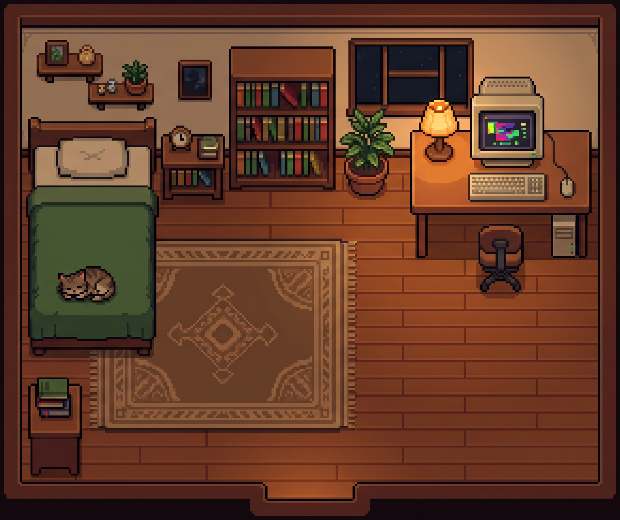
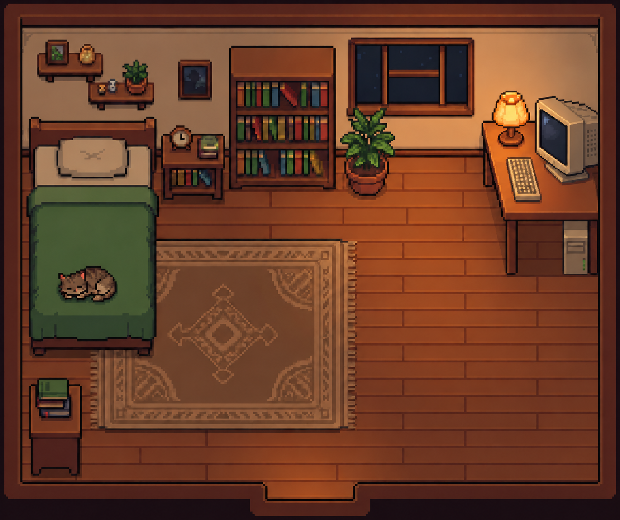
Correct Agent Studio composition and status ownership

diff --git a/app/web/app.js b/app/web/app.js
@@ -7,15 +7,22 @@ async function api(path,body){const r=await fetch(path,{method:body===undefined?
 function text(tag,content){const el=document.createElement(tag);el.textContent=content;return el;}
 function update(id,content){if($(id).textContent!==content)$(id).textContent=content;}
 function button(label,action){const b=text('button',label);b.type='button';b.addEventListener('click',()=>Promise.resolve(action()).catch(showError));return b;}
-function showError(error){$('error').replaceChildren(text('h3',error.info?.title??'Connection needs attention'),text('p',error.message),button('Check Again',async()=>{await refreshRuns();await refreshStatus(true);}));$('error').dataset.kind=error.network?'network':'request';$('error').hidden=false;}
+function showError(error){
+ const box=$('error'),technical=document.createElement('details');
+ // Never promote arbitrary engine/JavaScript messages into product copy.
+ const safeCode=/^[A-Z][A-Z0-9_]{2,70}$/.test(error?.info?.code??'')?error.info.code:null;
+ technical.append(text('summary','Technical details'),text('pre',safeCode??(error instanceof TypeError?'Internal interface data error.':'Local request could not be completed.')));
+ box.replaceChildren(text('h3','Something needs attention'),text('p','Check the connection and try checking the current result again.'),button('Check Again',async()=>{await refreshRuns();await refreshStatus(true);}),technical);
+ box.dataset.kind=error?.code==='VALIDATION_EVIDENCE_INCOMPLETE'?'validation':error?.network?'network':'request';box.hidden=false;
+}
 function route(){const name=location.hash.slice(1)||'workspace';for(const el of document.querySelectorAll('.view'))el.hidden=el.id!==name;for(const a of document.querySelectorAll('nav a,.settings')){if(a.hash==='#'+name)a.setAttribute('aria-current','page');else a.removeAttribute('aria-current');}update('view-label',name==='workspace'?'FIGMA DESIGNER · AGENT STUDIO':name.toUpperCase());update('workspace-title',({workspace:'Your design studio',prototype:'Prototype workshop',qa:'Review desk',browser:'Preview room',runs:'Studio journal',settings:'Studio settings'})[name]??'Your design studio');if(['qa','browser'].includes(name))refreshValidation().catch(showError);}
 function compose(input=''){location.hash='workspace';$('prompt').value=input;$('prompt').focus();}
 function summary(run){const marker=run.result?.match(/FIGMA_([A-Z0-9_]+):\s*(PASS|WARN|FAIL|HOLD|BLOCKED)/);return run.state==='RUNNING'?'Working…':run.state==='WAITING_FOR_USER'?'Ready for your reply':run.state==='CANCELLED'?'Task stopped':run.state==='FAILED'?'Task needs attention':run.state==='COMPLETED'&&marker&&marker[2]!=='PASS'?'Findings to review · '+marker[2]:run.mode==='QA'?'Interface QA · '+(run.validation?.status??'Completed'):run.mode.startsWith('BROWSER')?'Browser task complete':run.mode==='STATUS'?'System check complete':/FIGMA_(DESIGN|REVIS)/.test(run.result)?'Design complete':'Task complete';}
 function recovery(run){
   const card=document.createElement('section');card.className='recovery';
   const recovered=run.recovery==='RECOVERED_COMPLETED',partial=run.recovery==='CONTINUE_FROM_CURRENT_STATE',safe=run.recovery==='RETRY_SAFE';
-  card.append(text('h3',run.integrity?.state==='CHANGED'?'Read-only verification failed':recovered||partial?'Work was preserved':safe?(run.error?.title??'Task could not start'):'Connection interrupted'),text('p',recovered?'The native session completed. The result below was recovered without repeating your request.':run.error?.message??'The engine response was interrupted.'));
-  if(run.error?.impact)card.append(text('p',run.error.impact));
+  card.append(text('h3',run.integrity?.state==='CHANGED'?'Read-only verification failed':recovered||partial?'Work was preserved':safe?(run.error?.code==='PROVIDER_AUTH_REQUIRED'?'Reconnect your AI provider':'Task could not start'):'Connection interrupted'),text('p',recovered?'The native session completed. The result below was recovered without repeating your request.':run.integrity?.state==='CHANGED'?'The read-only result was not accepted. Check the document before continuing.':safe?'Figma was not changed by this request.':partial?'Completed work was preserved. Continue only the unfinished parts.':'Some changes may already exist. Check the current result before continuing.'));
+
   const actions=document.createElement('div');actions.className='actions';
   if(safe)actions.append(button('Try Again',()=>submit(run.mode,run.input)));
   if(partial&&run.integrity?.state!=='CHANGED')actions.append(button('Continue From Current Design',()=>compose('Inspect the current design and preserve completed work. Continue only the unfinished parts of this request: '+run.input)));
@@ -23,7 +30,12 @@ function recovery(run){
   if(!recovered&&run.error?.code!=='READ_ONLY_VERIFICATION_FAILED')actions.append(button('Change Model',()=>{location.hash='settings';$('model').focus();}),button('Reconnect Provider',openProvider));
   card.append(actions);const details=document.createElement('details');details.append(text('summary','Details'),text('pre',[run.error?.code,run.recovery,run.checking?'Checking native session…':'',run.sessionId?'Session '+run.sessionId:''].filter(Boolean).join('\n')));card.append(details);return card;
 }
-function runContent(run){const message=document.createElement('article');message.className='message';message.dataset.runId=run.id;message.dataset.state=run.state;message.append(text('h3',run.agentActivity?.technical?.restored?'PREVIOUS TASK':'YOU'),text('pre',run.input||({AUTO:'Design task',DESIGN:'Design task',QA:'Interaction check',BROWSER:'Preview build',BROWSER_TEST:'Preview check',STATUS:'Connection check'})[run.mode]||'Previous task'));if(run.error||run.recovery)message.append(recovery(run));if(run.result){const result=document.createElement('div');result.className='result-card';const label=summary(run);result.dataset.outcome=run.state==='FAILED'||label.includes('FAIL')?'FAIL':/WARN|HOLD|BLOCKED/.test(label)?'WARN':'DEFAULT';result.append(text('h3',label));if(run.integrity)result.append(text('p','Current-page integrity · '+run.integrity.state));if(run.state==='COMPLETED'&&run.id===history.at(-1)?.id){const actions=document.createElement('div');actions.className='actions';if(run.mode==='QA')actions.append(button('View Findings',()=>{location.hash='qa';}));else if(run.mode.startsWith('BROWSER'))actions.append(button('View Browser Status',()=>{location.hash='browser';}));else if(run.mode!=='STATUS')actions.append(button('Revise',()=>compose()),button('Make Interactive',()=>compose('Make the existing design interactive. ')),button('Run QA',()=>submit('QA')));result.append(actions);}message.append(result);if(['QA','BROWSER','BROWSER_TEST'].includes(run.mode)){const details=document.createElement('details');details.append(text('summary','Canonical report text'),text('pre',run.result));message.append(details);}else if(run.state==='WAITING_FOR_USER')message.append(text('h3','YOUR DESIGNER'),text('pre',run.result));else{const details=document.createElement('details');details.className='designer-response';details.append(text('summary','Designer’s full response'),text('pre',run.result));message.append(details);}}return message;}
+function runContent(run){const message=document.createElement('article');message.className='message';message.dataset.runId=run.id;message.dataset.state=run.state;message.append(text('h3',run.agentActivity?.technical?.restored?'PREVIOUS TASK':'YOU'));
+ const input=run.input||({AUTO:'Design task',DESIGN:'Design task',QA:'Interaction check',BROWSER:'Preview build',BROWSER_TEST:'Preview check',STATUS:'Connection check'})[run.mode]||'Previous task';
+ const preview=text('pre',input.length>240?input.slice(0,237)+'…':input);preview.className='request-preview';message.append(preview);
+ if(input.length>240){const full=document.createElement('details');full.className='request-full';full.append(text('summary','Full request'),text('pre',input));message.append(full);}
+ if(run.error||run.recovery){const more=document.createElement('details');more.className='run-recovery';more.append(text('summary',run.recovery==='RECOVERED_COMPLETED'?'Recovery record':'Recovery actions'),recovery(run));if(run.state==='FAILED'&&run.recovery!=='RECONCILIATION_REQUIRED'&&run.id===history.at(-1)?.id)more.open=true;message.append(more);}
+if(run.result){const result=document.createElement('div');result.className='result-card';const label=summary(run);result.dataset.outcome=run.state==='FAILED'||label.includes('FAIL')?'FAIL':/WARN|HOLD|BLOCKED/.test(label)?'WARN':'DEFAULT';result.append(text('h3',label));if(run.integrity)result.append(text('p','Current-page integrity · '+run.integrity.state));if(run.state==='COMPLETED'&&run.id===history.at(-1)?.id){const actions=document.createElement('div');actions.className='actions';if(run.mode==='QA')actions.append(button('View Findings',()=>{location.hash='qa';}));else if(run.mode.startsWith('BROWSER'))actions.append(button('View Browser Status',()=>{location.hash='browser';}));else if(run.mode!=='STATUS')actions.append(button('Revise',()=>compose()),button('Make Interactive',()=>compose('Make the existing design interactive. ')),button('Run QA',()=>submit('QA')));result.append(actions);}message.append(result);if(['QA','BROWSER','BROWSER_TEST'].includes(run.mode)){const details=document.createElement('details');details.append(text('summary','Canonical report text'),text('pre',run.result));message.append(details);}else if(run.state==='WAITING_FOR_USER')message.append(text('h3','YOUR DESIGNER'),text('pre',run.result));else{const details=document.createElement('details');details.className='designer-response';details.append(text('summary','Designer’s full response'),text('pre',run.result));message.append(details);}}return message;}
 function renderRuns(){
   // Presence timestamps must not rebuild the conversation or repeat its screen-reader log.
   const signature=JSON.stringify([status.workspaceId,status.sessionId,history.map(({agentActivity,activityHistory,...run})=>({...run,restored:agentActivity?.technical?.restored===true}))]);
@@ -58,7 +70,7 @@ async function refreshStatus(force=false){
   else if(status.figma!=='CONNECTED'){title=status.figma==='PLUGIN_NOT_CONNECTED'?'Figma plugin not connected':'Figma connection needs attention';copy='Open your design file in Figma Desktop and run the imported Figma Designer development plugin. Then choose Check Again.';}
   else if(status.mcp&&status.mcp.state!=='COMPATIBLE'){title='Another Figma MCP runtime may be active';copy='Figma Designer MCP needs the approved runtime. Close the older Figma/OpenCode session, run the matching plugin, then choose Check Again.';}
   else if(pendingSubmission){title='Checking the last request';copy='Some changes may already exist in Figma. Check the current result before sending again.';}
-  else if(status.reconciliationRequired){title='Checking the previous operation';copy='Some changes may already exist in Figma. Check the current result before repeating the request.';}
+  else if(status.reconciliationRequired){title='Previous change needs checking';copy='';}
   else if(ai.state!=='READY'){const missing={PROVIDER_REQUIRED:['AI provider needed','Runtime verified and Figma connected. Connect an AI provider before starting a design.'],PROVIDER_AUTH_REQUIRED:['Reconnect your AI provider','Your provider needs authentication before you can continue.'],MODEL_REQUIRED:['Choose an AI model','Choose an available model to start designing.'],MODEL_UNAVAILABLE:['Selected model unavailable','Choose another available model to continue.']};[title,copy]=missing[ai.state]??['Checking AI availability','The engine is loading its provider and model catalog.'];}
   $('connection').dataset.ready=String(status.runtime==='VERIFIED'&&engineReady&&status.figma==='CONNECTED'&&(!status.mcp||status.mcp.state==='COMPATIBLE')&&ai.state==='READY'&&!status.reconciliationRequired&&!pendingSubmission);update('connection-title',title);update('connection-copy',copy);$('connect-shortcut').hidden=!['PROVIDER_REQUIRED','PROVIDER_AUTH_REQUIRED'].includes(ai.state);$('choose-shortcut').hidden=!['MODEL_REQUIRED','MODEL_UNAVAILABLE'].includes(ai.state);if(force||$('error').dataset.kind==='network')$('error').hidden=true;
   const c=status.connection??{};update('figma-settings',`Plugin: ${c.plugin??(status.figma==='CONNECTED'?'CONNECTED':'UNKNOWN')} · Bridge: ${c.bridge??'UNKNOWN'} · Document: ${c.document??'UNKNOWN'} · Runtime: ${status.runtime}`+(status.figma!=='CONNECTED'?' — Open your Figma design file. In Figma Desktop, run the imported Figma Designer development plugin. Return here and choose Check Again.':''));
@@ -66,7 +78,7 @@ async function refreshStatus(force=false){
 }
 async function refreshRuns(){history=await api('/api/runs');const received=history.find(r=>r.requestId===pendingSubmission);if(received){pendingSubmission=null;if($('prompt').value.trim()===received.input.trim())$('prompt').value='';$('error').hidden=true;}renderRuns();}
 let validationPending,lastValidation=0,validationRuns='';
-async function refreshValidation(){validationPending??=api('/api/validation').then(value=>{renderValidation(value);lastValidation=Date.now();}).finally(()=>validationPending=null);return validationPending;}
+async function refreshValidation(){validationPending??=api('/api/validation').then(value=>{renderValidation(value);if($('error').dataset.kind==='validation')$('error').hidden=true;lastValidation=Date.now();}).finally(()=>validationPending=null);return validationPending;}
 
 async function submit(mode,input=''){
   if(pendingSubmission)return;
@@ -96,6 +108,8 @@ $('oauth-complete').addEventListener('click',async()=>{const code=$('oauth-code'
 for(const b of document.querySelectorAll('.refresh-validation'))b.addEventListener('click',()=>refreshValidation().catch(showError));
 for(const id of ['qa-continue','browser-continue'])$(id).addEventListener('click',()=>compose('Review the current validation findings and fix the issues I choose.'));
 $('provider-recheck').addEventListener('click',()=>refreshStatus(true).catch(showError));
+window.addEventListener('error',event=>{event.preventDefault();showError(event.error);});
+window.addEventListener('unhandledrejection',event=>{event.preventDefault();showError(event.reason);});
 window.addEventListener('hashchange',route);route();
 async function poll(){if(polling)return;polling=true;try{await refreshRuns();await refreshStatus();const stamp=JSON.stringify(history.filter(r=>r.finishedAt).map(r=>[r.id,r.state,r.validation]));if(stamp!==validationRuns||Date.now()-lastValidation>15000){validationRuns=stamp;refreshValidation().catch(showError);}}catch{showError(Object.assign(Error('The local service is unavailable. Check again after it reconnects.'),{network:true}));}finally{polling=false;}}
 await poll();setInterval(poll,1500);

diff --git a/app/web/index.html b/app/web/index.html
@@ -14,8 +14,8 @@
 <div class="agent-copy"><span class="agent-avatar" aria-hidden="true">✦</span><div><p id="agent-message" role="status" aria-live="polite" aria-atomic="true">Ready when you are.</p><p id="agent-detail" hidden></p></div></div>
 <div class="actions workflow-actions"><button data-mode="QA">Run QA</button><button data-mode="BROWSER">Build Browser</button><button data-mode="BROWSER_TEST">Test Browser</button><button data-mode="STATUS">Check System</button></div>
 </section>
-<aside class="conversation-panel" aria-label="Current task and conversation"><div class="conversation-heading"><span class="eyebrow">OUR CONVERSATION</span><h2>From an idea to a design.</h2></div><div class="intro"><span class="intro-symbol" aria-hidden="true">✧</span><h3>What are you imagining?</h3><p>Tell me what you want to create. We’ll build it in Figma, then refine it together.</p><p class="muted">Your work stays editable. Your next idea can start right here.</p></div><div id="conversation" role="log" aria-label="Design conversation" aria-live="polite"></div><div id="run-state" role="status"></div><div class="agent-recent"><h3>Studio activity</h3><ol id="agent-history" aria-label="Recent activity"></ol><p id="agent-history-empty">The story of your next design starts here.</p></div><details id="agent-details"><summary>View details</summary><pre id="agent-technical"></pre></details><section id="validation-summary" class="validation-summary" hidden><h3>Current workspace</h3><div id="validation-summary-status"></div><div class="actions"><a class="text-link" href="#qa">Review QA →</a><a class="text-link" href="#browser">Open Browser →</a></div></section></aside>
-<form id="composer"><label for="prompt">What should we design?</label><textarea id="prompt" placeholder="Describe a screen, a new idea, or a change…" rows="3" maxlength="32000" required></textarea><div class="compose-actions"><span>Enter to add a line · Ctrl + Enter to send</span><button id="cancel" type="button" hidden>Stop run</button><button id="send" type="submit" class="primary">Send</button></div></form></section>
+<aside class="conversation-panel" aria-label="Current task and conversation"><div class="conversation-heading"><span class="eyebrow">OUR CONVERSATION</span><h2>From an idea to a design.</h2></div><div class="intro"><span class="intro-symbol" aria-hidden="true">✧</span><h3>What are you imagining?</h3><p>Tell me what you want to create. We’ll build it in Figma, then refine it together.</p><p class="muted">Your work stays editable. Your next idea can start right here.</p></div><div id="conversation" role="log" aria-label="Design conversation" aria-live="polite"></div><div id="run-state" role="status"></div><div class="agent-recent"><h3>Recent activity</h3><ol id="agent-history" aria-label="Recent activity"></ol><p id="agent-history-empty">The story of your next design starts here.</p></div><details id="agent-details"><summary>View details</summary><pre id="agent-technical"></pre></details><section id="validation-summary" class="validation-summary" hidden><h3>Current workspace</h3><div id="validation-summary-status"></div><div class="actions"><a class="text-link" href="#qa">Review QA →</a><a class="text-link" href="#browser">Open Browser →</a></div></section></aside>
+<form id="composer"><label for="prompt">What should we design?</label><textarea id="prompt" placeholder="Describe a screen, idea, or change…" rows="2" maxlength="32000" required></textarea><div class="compose-actions"><span>Enter to add a line · Ctrl + Enter to send</span><button id="cancel" type="button" hidden>Stop run</button><button id="send" type="submit" class="primary">Send</button></div></form></section>
 <section id="prototype" class="view" hidden><p class="eyebrow">PROTOTYPE WORKSHOP</p><h2>Give your screens a little life.</h2><p>Describe the controls or journey you want to make interactive.</p><button id="prototype-compose" class="primary">Describe an interaction</button><p class="muted">Only defined, supported behavior is authored. Conditional variable workflows remain unavailable.</p></section>
 <section id="qa" class="view" hidden><p class="eyebrow">THE REVIEW DESK · READ ONLY</p><h2>Check how it works.</h2><p>Find broken behavior, unknown expectations and native limitations in the inspected scope.</p><div class="actions"><button data-mode="QA" class="primary">Run QA</button><button class="refresh-validation">Refresh Evidence</button><button id="qa-continue">Continue Designing</button></div><div id="qa-result" class="inspection-section" role="status">No structured QA evidence yet.</div><section id="qa-integrity" class="inspection-section" aria-label="Document integrity"></section><section class="inspection-section"><div class="section-heading"><h3>Findings</h3><label>Show <select id="qa-filter"><option value="ALL">All</option><option value="BROKEN">Broken</option><option value="UNKNOWN">Unknown expectations</option><option value="LIMITATIONS">Figma limitations</option><option value="BLOCKER">Blocker</option><option value="HIGH">High</option><option value="MEDIUM">Medium</option><option value="LOW">Low</option></select></label></div><div id="qa-findings"></div></section><details id="qa-raw" class="inspection-section"><summary>Raw Evidence — normalized</summary></details></section>
 <section id="browser" class="view" hidden><p class="eyebrow">THE PREVIEW ROOM</p><h2>Try it beyond the canvas.</h2><p>Freshness, functional checks and visual evidence answer different questions.</p><div class="actions"><button data-mode="BROWSER" class="primary">Build Browser</button><button data-mode="BROWSER_TEST">Run Browser Test</button><button id="open-preview">Open Preview</button><button id="refresh-browser">Refresh Status</button><button id="browser-continue">Continue Designing</button></div><p id="validation-asof" class="muted"></p><section id="browser-status" class="inspection-section" aria-label="Preview and freshness" role="status">Checking evidence…</section><section class="inspection-section"><h3>Browser test</h3><div id="browser-tests"></div></section><section id="browser-motion" class="inspection-section" aria-label="Motion evidence"></section><section class="inspection-section"><h3>Source fidelity</h3><div id="fidelity"></div><div class="section-heading"><h3>Fidelity findings</h3><label>Show <select id="fidelity-filter"><option value="DEFECTS">Defects</option><option value="ALL">All</option><option value="FONTS">Fonts</option><option value="LIMITATIONS">Limitations</option></select></label></div><div id="fidelity-findings"></div></section><section id="font-limitations" class="inspection-section"></section><section id="property-limitations" class="inspection-section"></section><section id="browser-regression" class="inspection-section" aria-label="Browser visual regression"></section><section id="native-parity" class="inspection-section" aria-label="Native render comparison"></section><section class="inspection-section"><h3>Validation history</h3><div id="validation-history"></div></section><details id="browser-raw" class="inspection-section"><summary>Raw Evidence — normalized</summary></details></section>

diff --git a/app/web/agent-presence.css b/app/web/agent-presence.css
@@ -1,6 +1,6 @@
 .agent-studio{min-width:0;min-height:0;display:flex;flex-direction:column;justify-content:center;position:relative}.studio-heading{display:flex;justify-content:space-between;align-items:center;gap:12px;padding:8px 0 6px;flex-shrink:0}.studio-heading h2{font-size:21px;font-weight:500;margin:5px 0 0;letter-spacing:-.025em}#agent-phase{font-size:10px;border:1px solid var(--line);padding:4px 10px;border-radius:20px;color:var(--accent);white-space:nowrap}.agent-visual{position:relative;width:100%;max-width:620px;min-height:0;aspect-ratio:620/520;margin:auto;flex-shrink:1;overflow:hidden;background:#150f13}.studio-room{display:block;width:100%;height:100%;object-fit:contain;image-rendering:pixelated}.studio-character{position:absolute;left:72.3%;top:34%;width:20.65%;height:34.62%;object-fit:contain;image-rendering:pixelated;transform-origin:bottom center}.studio-monitor{position:absolute;left:77.8%;top:21.6%;width:7.1%;height:6.1%;image-rendering:pixelated;object-fit:fill}.agent-copy{display:flex;gap:12px;align-items:flex-start;padding:13px 0 9px;flex-shrink:0;min-width:0}.agent-avatar{display:grid;place-items:center;width:26px;height:26px;flex-shrink:0;background:var(--soft);color:var(--accent);border-radius:8px}#agent-message{font-size:14px;line-height:1.5;margin:1px 0;color:var(--text);overflow-wrap:anywhere}#agent-detail{font-size:11px;line-height:1.5;margin:5px 0 0;color:var(--muted);overflow-wrap:anywhere}.workflow-actions{margin:0;gap:6px 15px;flex-shrink:0}.workflow-actions button{border:0;background:transparent;font-size:10px;padding:5px 0;color:var(--muted)}.workflow-actions button:hover:not(:disabled){color:var(--accent);background:transparent;border:0}.agent-recent{border-top:1px solid var(--line);padding-top:12px;margin-top:12px;flex-shrink:0}.agent-recent h3{font-size:10px;font-weight:550;color:var(--muted);letter-spacing:.03em}#agent-history{list-style:none;padding:0;margin:0;max-height:90px;overflow:auto;font-size:11px;color:var(--muted)}#agent-history li{display:flex;gap:8px;padding:3px 0;overflow-wrap:anywhere}#agent-history li span:first-child{color:var(--accent);width:12px;flex-shrink:0}#agent-history-empty{font-size:11px;margin:0;color:var(--muted)}#agent-details{flex-shrink:0;padding-bottom:4px}#agent-technical{max-height:130px;overflow:auto}.agent-studio[data-phase=BLOCKED] #agent-phase,.agent-studio[data-phase=RECOVERING] #agent-phase{color:var(--warn);border-color:var(--warn)}
 #agent-scene[data-active=true][data-animation=TYPE] .studio-character{animation:studio-type .7s steps(2,end) infinite}#agent-scene[data-active=true][data-animation=RECOVER] .studio-character{animation:studio-search 2s steps(2,end) infinite}
-@keyframes studio-type{50%{transform:translateY(-1px)}}@keyframes studio-search{50%{transform:rotate(-1deg)}}
+@keyframes studio-type{50%{transform:translateY(-1px)}}@keyframes studio-search{50%{transform:translateY(-1px)}}
 @media(min-width:801px) and (max-height:750px){.studio-heading .eyebrow{display:none}.studio-heading h2{font-size:17px}.agent-visual{max-width:430px}.agent-copy{padding:8px 0 5px}#agent-message{font-size:12px}#composer{padding:9px 12px}textarea{min-height:42px}.workflow-actions button{font-size:9px}.agent-recent{padding-top:8px;margin-top:8px}}
 @media(max-width:800px){.agent-visual{max-width:540px}.agent-copy{padding-top:12px}}
 @media(prefers-reduced-motion:reduce){#agent-scene *{animation:none!important;transition:none!important}}
@@ -9,3 +9,8 @@
 @media(max-width:800px){.scene-fit{flex:none;height:min(80vw,490px);width:100%}}
 
 .studio-character{top:27%}
+
+/* Static room/CRT casing; right-facing sprites share a bottom-centered canvas. */
+.studio-character{left:68%;top:22%;width:18%;height:27%;transform:none}.studio-monitor{left:87.1%;top:21.5%;width:4.5%;height:10%;clip-path:polygon(0 0,100% 24%,100% 100%,0 76%)}
+.agent-visual{max-width:690px;background:transparent}.studio-heading{padding-bottom:3px}.studio-heading h2{font-size:19px}.agent-copy{align-self:center;max-width:540px;width:100%;padding:7px 10px 4px;gap:9px}.agent-avatar{width:23px;height:23px}#agent-message{font-size:13px}#agent-detail{font-size:10px;margin-top:3px}.workflow-actions{justify-content:center}
+@media(min-width:801px) and (max-height:750px){.agent-visual{max-width:620px}.studio-heading h2{font-size:17px}.agent-copy{padding:5px 0}#agent-detail{display:none}.workflow-actions button{padding:3px 0}}

diff --git a/app/web/agent-presence.js b/app/web/agent-presence.js
@@ -6,7 +6,12 @@ export function renderAgentPresence(runs,status={}){
  const run=runs.filter(r=>status.workspaceId?r.workspaceId===status.workspaceId:!status.sessionId||r.sessionId===status.sessionId).at(-1);
  const override=status.reconciliationRequired&&!status.activeRun?'unknown':connectionMessage(status);
  const view=activityView(override?{messageId:override,attention:true}:run?.agentActivity);
- const history=(run?.activityHistory??[]).slice(-10).map(entry=>({...activityView(entry),observation:entry.observation}));
+ const phases=new Map();
+ for(const entry of (run?.activityHistory??[]).slice(-10)){
+  const view=activityView(entry),key=entry.technical?.category==='RECOVERY'?'RECOVERY':view.phase;
+  phases.delete(key);phases.set(key,{...view,observation:entry.observation,historyLabel:key==='RECOVERY'?'Checking previous change':null});
+ }
+ const history=[...phases.values()];
  const technical=run?.agentActivity?.technical??{};
  const safeDetails={phase:view.phase,animation:view.animation};
  for(const [key,allowed]of Object.entries({workflow:['AUTO','DESIGN','QA','BROWSER','BROWSER_TEST','STATUS'],runState:['RUNNING','COMPLETED','FAILED','CANCELLED','WAITING_FOR_USER'],category:['READ_DESIGN','WRITE_DESIGN','COMPONENTS','PROTOTYPE','EXPORT','QA','BROWSER','RECOVERY','OTHER'],recovery:['RECONCILIATION_REQUIRED','RECOVERED_COMPLETED','CONTINUE_FROM_CURRENT_STATE','RETRY_SAFE'],receiptState:['UNKNOWN','IN_PROGRESS','FAILED_AFTER_PARTIAL_WRITE','COMMITTED','FAILED_PRECONDITION','FAILED_BEFORE_WRITE','UNVERIFIED'],integrity:['UNCHANGED','CHANGED','UNVERIFIED']}))if(allowed.includes(technical[key]))safeDetails[key]=technical[key];
@@ -15,9 +20,9 @@ export function renderAgentPresence(runs,status={}){
  const character={IDLE:'idle',LISTEN:'listening',READ:'checking',THINK:'planning',TYPE:'designing',CONNECT:'prototyping',CHECK:'checking',PREVIEW:'listening',TALK:'waiting',WAIT:'waiting',RECOVER:'recovering',DONE:'done',ALERT:'alert'}[view.animation];
  const monitor={IDLE:'ready',LISTENING:'ready',INSPECTING:'inspecting',PLANNING:'planning',DESIGNING:'designing',PROTOTYPING:'prototyping',CHECKING:'checking',PREVIEWING:'previewing',WAITING:'ready',RECOVERING:'recovering',COMPLETED:view.attention?'attention':'done',CANCELLED:'ready',BLOCKED:'attention'}[view.phase];
  $('studio-character').src='/assets/agent-studio/character/'+character+'.png';$('studio-monitor').src='/assets/agent-studio/monitor/'+monitor+'.png';
- put('agent-phase',phaseLabels[view.phase]);put('agent-message',view.message);put('agent-detail',view.detail);$('agent-detail').hidden=!view.detail;
+ put('agent-phase',phaseLabels[view.phase]);put('agent-message',view.message);put('agent-detail',view.detail);$('agent-detail').hidden=!view.detail||!!override||technical.category==='RECOVERY';
  const list=$('agent-history');list.replaceChildren();
- for(const entry of history){const item=document.createElement('li'),mark=document.createElement('span'),label=document.createElement('span');mark.setAttribute('aria-hidden','true');mark.textContent=entry.attention?'!':entry.observation==='completed'||entry.terminal?'✓':entry.active?'●':'·';label.textContent=entry.message;item.append(mark,label);list.append(item);}
+ for(const entry of history){const item=document.createElement('li'),mark=document.createElement('span'),label=document.createElement('span');mark.setAttribute('aria-hidden','true');mark.textContent=entry.attention?'!':entry.observation==='completed'||entry.terminal?'✓':entry.active?'●':'·';label.textContent=entry.historyLabel??({IDLE:'Ready',LISTENING:'Request received',INSPECTING:'Checked your design',PLANNING:'Planned the layout',DESIGNING:'Built the interface',PROTOTYPING:'Connected interactions',CHECKING:'Checked the result',PREVIEWING:'Prepared preview',WAITING:'Awaiting your reply',RECOVERING:'Checking previous change',COMPLETED:'Finished',CANCELLED:'Task stopped',BLOCKED:'Needs attention'})[entry.phase];item.append(mark,label);list.append(item);}
  $('agent-history-empty').hidden=!!history.length;
  put('agent-technical',Object.entries(safeDetails).map(([key,value])=>key+': '+value).join('\n'));
 }

diff --git a/app/web/styles.css b/app/web/styles.css
@@ -37,3 +37,17 @@ details{margin-top:12px}summary{cursor:pointer;font-size:11px;color:var(--muted)
 #validation-history p{border-bottom:1px solid var(--line);padding:10px 0;font-size:13px}
 @media(max-width:620px){.section-heading{align-items:stretch;flex-direction:column;gap:8px}.section-heading label{max-width:100%}#validation-summary-status{grid-template-columns:1fr}.evidence-row{gap:10px;font-size:13px}.finding-heading{gap:8px}}
 @media(prefers-color-scheme:dark){.outcome[data-outcome=WARN],.outcome[data-outcome=STALE],.outcome[data-outcome=MEDIUM],.outcome[data-outcome=LOW]{color:#dec18a}.outcome[data-outcome=FAIL],.outcome[data-outcome=FAILED],.outcome[data-outcome=BLOCKER],.outcome[data-outcome=HIGH]{color:#f0aaa1}}
+
+/* Studio composition: room first; controls and conversation stay quiet. */
+.connection[data-ready=true]{display:none}.statuses{opacity:.8}
+.studio-layout{grid-template-columns:minmax(0,1fr) 286px;gap:0 30px;padding-top:14px}.conversation-panel{padding-left:20px;border-left-color:color-mix(in srgb,var(--line) 55%,transparent)}
+.conversation-heading h2{font-size:14px;margin:6px 0 14px}.intro h3{font-size:18px}.intro p{font-size:12px}
+.message{padding:13px 0}.message pre{font-size:11px;line-height:1.65}.request-preview{display:-webkit-box;-webkit-line-clamp:3;-webkit-box-orient:vertical;overflow:hidden;font-weight:400!important}.request-full pre{font-weight:400!important}
+.result-card{background:transparent;border:0;padding:0;margin:12px 0}.result-card h3{font-size:12px}.result-card .actions{gap:5px;margin-top:8px}.result-card button{padding:5px 8px;font-size:10px}
+#run-state{display:none}#composer{background:transparent;border:0;border-top:1px solid var(--line);border-radius:0;padding:10px 0 0;margin-top:6px}#composer label{font-size:12px;margin-bottom:3px}#prompt{min-height:42px;height:44px;max-height:110px;font-size:12px}.compose-actions button{padding:6px 13px}
+.agent-recent{margin-top:10px;padding-top:8px}#agent-history{max-height:65px}.agent-recent h3{font-size:10px}.validation-summary{padding-top:10px;margin-top:12px;font-size:11px}
+nav a[href="#runs"]{margin-top:22px;font-size:10px;opacity:.8}.new{background:transparent;font-weight:400}
+@media(min-width:801px) and (max-width:1100px){.studio-layout{grid-template-columns:minmax(0,1fr) 240px;gap:0 18px}.conversation-panel{padding-left:14px}header{height:64px}.conversation-heading h2{font-size:13px}}
+@media(max-width:800px){.studio-layout{display:flex}.conversation-panel{padding-left:0}}
+
+.conversation-panel #validation-summary-status{grid-template-columns:1fr}.conversation-panel .validation-summary h3{font-size:11px}.conversation-panel .validation-summary .evidence-row{padding:4px 0;font-size:10px}

diff --git a/app/web/validation.js b/app/web/validation.js
@@ -53,6 +53,14 @@ function renderBrowser(){
 }
 function renderFidelityFindings(){const filter=$('fidelity-filter').value,rows=current.fidelity.findings.filter(f=>filter==='ALL'||filter==='DEFECTS'&&f.severity!=='LIMITATION'||filter==='FONTS'&&f.code==='FONT_FIDELITY_LIMITATION'||filter==='LIMITATIONS'&&f.severity==='LIMITATION');$('fidelity-findings').replaceChildren(...rows.map(f=>finding(f,'fidelity')));if(!rows.length)$('fidelity-findings').append(el('p','No findings in this filter. Unmeasured properties remain unverified.','muted'));}
 export function renderValidation(value){
+  // Reject incomplete evidence before dereferencing nested status/count fields.
+  if(!value?.qa?.counts||!value.qa.integrity||!Array.isArray(value.qa.findings)||!value.browser||!Array.isArray(value.browser.checks)||!value.motion||!Array.isArray(value.motion.rows)||!value.fidelity?.coverage||!Array.isArray(value.fidelity.findings)||!Array.isArray(value.fidelity.fonts)){
+    current=undefined;rendered=undefined;
+    for(const id of ['qa-result','browser-status','qa-integrity','qa-findings','qa-raw','browser-tests','browser-motion','fidelity','fidelity-findings','font-limitations','property-limitations','browser-regression','native-parity','browser-raw'])$(id).replaceChildren(el('h3','Evidence unavailable'),el('p','Check again to load complete validation evidence.'));
+    $('validation-summary').hidden=true;$('open-preview').disabled=true;
+    throw Object.assign(new TypeError('Incomplete validation evidence'),{code:'VALIDATION_EVIDENCE_INCOMPLETE'});
+  }
+
   $('validation-asof').textContent='Evidence checked: '+stamp(value.asOf);
   const signature=JSON.stringify({...value,asOf:null});if(signature===rendered)return;rendered=signature;
   current=value;renderQA();renderBrowser();

diff --git a/docs/AGENT_STUDIO_V1_5_0.md b/docs/AGENT_STUDIO_V1_5_0.md
@@ -2,15 +2,15 @@
 
 ## Purpose and layout
 
-This source milestone supersedes the compact presence-card experiment. A narrow navigation rail, warm connection strip, central bedroom stage, side conversation and bottom composer replace the previous stacked application shell. Studio, Prototype workshop, Review desk, Preview room, Studio journal and Settings keep the existing service/controller contracts. The primary viewport is 1320×860; the desktop minimum remains 900×650. Narrow web layouts stack the scene/conversation instead of clipping controls.
+This source milestone supersedes the compact presence-card experiment. A narrow navigation rail, action-only attention strip, central bedroom stage, side conversation and bottom composer replace the previous stacked application shell. Studio, Prototype workshop, Review desk, Preview room, Studio journal and Settings keep the existing service/controller contracts. The primary viewport is 1320×860; the desktop minimum remains 900×650. Narrow web layouts stack the scene/conversation instead of clipping controls.
 
 The bedroom, character and CRT screen are independently layered. The physical room/casing stay fixed. Safe semantic state selects a character pose and screen interior; dynamic messages remain accessible HTML. Completed observations use past tense and static poses. No artificial progress percentage, delayed completion, model-generated status, workflow decision or extra Figma call is introduced.
 
 ## Art and provenance
 
-The user supplied three generated JPEG references in `design-references/1.5-agent-studio/`. Runtime artwork is prepared from those supplied references: cropped canonical bedroom, ten transparent normalized character canvases, and ten cropped CRT screen interiors under `app/web/assets/agent-studio/`. Raw sheets and labels are excluded from runtime assets. Each output PNG has no generation metadata. Pixelated rendering and nearest-neighbor preparation preserve the reference palette; no remote asset is loaded.
+The user supplied three generated JPEG references in `design-references/1.5-agent-studio/`. Runtime artwork uses the supplied references and an approved workstation correction: recomposed bedroom, ten transparent normalized character canvases, and ten cropped CRT screen interiors under `app/web/assets/agent-studio/`. Raw sheets and labels are excluded from runtime assets. Each output PNG has no generation metadata. Pixelated rendering and nearest-neighbor preparation preserve the reference palette; no remote asset is loaded.
 
-The character sheets are illustrative single poses, not animation frames. State swaps use a stable 128×180 canvas and anchor. Minor hand movement occurs only when an actual active write is observed; reduced motion disables it. Their side-facing perspective differs slightly from the near-top-down room; this is an art limitation, not a claim of a fully hand-authored animation set. Existing room furniture/decor is baked into the approved background; no pet/game system is added.
+The character sheets are illustrative single poses, not animation frames. State swaps use a stable 128×180 canvas and anchor. Minor hand movement occurs only when an actual active write is observed; reduced motion disables it. Working poses face right into a side-facing workstation; idle/listening poses can face the user. This remains an illustrative pose set, not a fully hand-authored animation set. Existing room furniture/decor is baked into the approved background; no pet/game system is added.
 
 PIXEL_AGENTS_CODE_COPIED: NO
 PIXEL_AGENTS_ART_IMPORTED: NO
@@ -31,5 +31,24 @@ Required live cases A–L will be recorded separately as observed evidence. Disp
 ## Limitations and next steps
 
 Polling can miss short in-flight operations; completed observations remain truthful and are not replayed for animation. The translator cannot infer section names/plans from private tool payloads. Original assistant output and canonical findings stay in the conversation/evidence views; only the new status surface is a fixed semantic translation. Refine character perspective/gesture frames after this foundation; do not add a second agent runtime. V1.6 may explore Design-System Intelligence under a separate scope.
+'
+## Immediate visual course correction — 2026-10-18
+
+The existing translator, recovery machinery and completed design/revision evidence are preserved. This correction changes presentation and observational coalescing only.
+
+- **Workstation/room:** built-in imagegen edited the existing runtime bedroom, preserving the left bed/cat, bookshelf, window, plant, wood floor and open center. The desk is side-facing on the right, with keyboard left of the CRT and space for the character's own chair. A second narrow edit made the CRT face readable. The room is static; character, screen interior and HTML speech remain separate layers. No CSS mirroring/rotation of furniture or sprites.
+- **Source reference:** the currently user-modified `design-references/1.5-agent-studio/bedroom-base.jpg` contains the monitor sheet. It is preserved untouched and excluded from this correction commit. The actual existing runtime bedroom was the edit target. No assumption was made that the modified JPEG was a replacement room.
+- **Character:** existing ten 128×180 transparent canvases retained. Shared position 68%/22%, size 18%/27% aligns the seated right-facing working poses with the keyboard. Feet/seat anchors do not change between swaps. Recovery movement uses translation, never rotation. Idle may face the user.
+- **CRT:** physical casing stays in the background. Only the cropped screen content changes, clipped to its fixed three-quarter screen face. No whole-monitor swaps or dynamic bitmap text.
+- **Scale/layout:** 1320×860 browser viewport room is approximately 52% of usable Studio width. Conversation is 286px and quieter; healthy attention strip is hidden. Compact navigation remains, with Runs visually secondary. Composer is an integrated border line, two-row entry and Send.
+- **Conversation:** previews stop at 240 characters with a three-line clamp. Keyboard-operable Full request retains every original character, including whitespace. Full completed assistant responses remain opt-in; actual briefing questions remain visible.
+- **Recovery ownership:** top bar says Previous change needs checking, agent describes current state, timeline uses short historical labels. Repeated recovery phases coalesce in the renderer; opaque steps no longer interleave known tool phases with generic planning. Recovery records/actions remain available without changing retry/reconciliation decisions. No payload or reasoning is parsed for copy.
+- **Errors:** reproduced incomplete validation response `{}`. Validate required evidence containers before reading nested status/count fields; clear stale findings/statuses and disable preview on invalid evidence. No fake passing fallback. Normal copy is Something needs attention; default-closed Technical details uses a safe error classification/code, never raw JavaScript, engine prose, paths or credentials. Valid evidence refresh recovers. Global unexpected error/rejection handlers use the same surface.
+- **Responsive/accessibility:** 1320×860, 1200×800, 1024×720 and 900×650 checked for scene visibility, composer bounds and horizontal overflow. Narrow/200%-equivalent reflow, light/dark, reduced motion, keyboard focus, expanded request/details and polite status remain covered. Secondary workspace evidence uses a single column to avoid narrow clipping.
+- **Visual checkpoint:** PASS for the corrected source presentation, including right-facing working pose inspected separately from idle. Screenshots are private generated evidence, not native Figma motion proof: `.figma-designer/presence/correction-1320x860.png`, `correction-1200x800.png`, `correction-1024x720.png`, `correction-900x650.png`, and `studio-dark.png` (working pose).
+- **Art method/prompt:** built-in imagegen; edit target existing runtime bedroom, character supporting orientation reference. Prompt required only workstation reorientation, bed left, open floor, keyboard/CRT right, no baked character/chair/text; follow-up changed only CRT to readable three-quarter facing left. Selected output is saved in `app/web/assets/agent-studio/room/bedroom-base.png` (620×520, nearest-neighbor preparation, no embedded generation metadata). Existing 21-path static asset boundary unchanged.
+- **Tests:** 572 npm contracts passed; 69 affected translator/application/validation/presence UI tests passed (final correction run). These totals overlap and must not be summed as distinct cases. Final packaged artifact checks and exact final CI are recorded separately after rebuilding.
+
+The previously submitted native waiting-case request failed with SESSION_FAILED / RECONCILIATION_REQUIRED. Current native session context has no appended request beyond its recorded offset. It is not declared a safe retry or successful waiting acceptance. No request was resent and no recovery state was manually cleared. This remaining acceptance issue must be reconciled truthfully; it does not undo the visual checkpoint or the previously completed design/revision.
 
 FIGMA_DESIGNER_AGENT_STUDIO: HOLD
